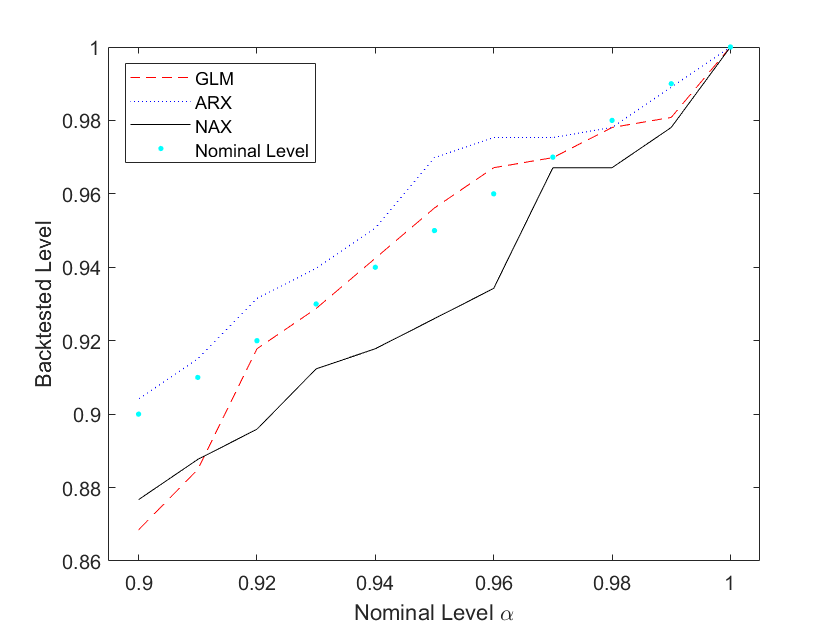
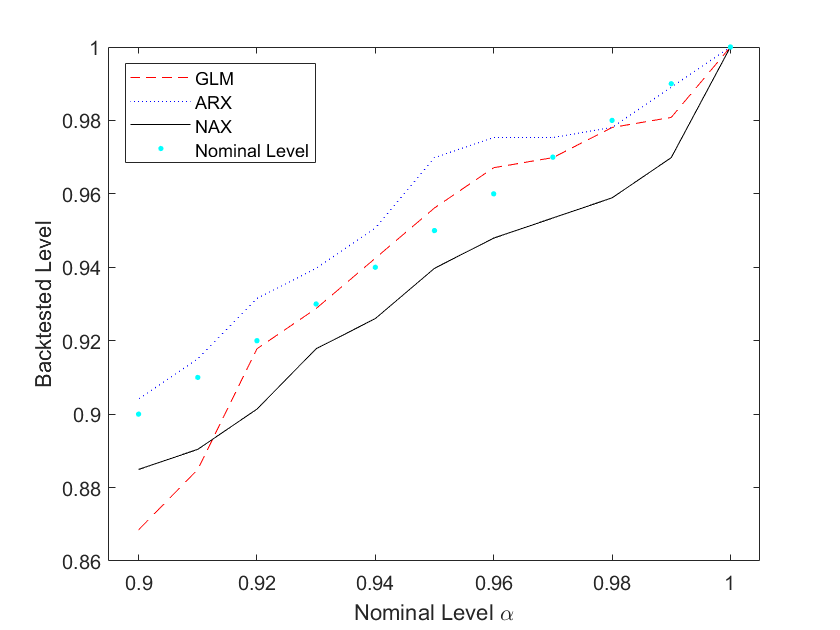
Matlab_Bello

diff --git a/Matlab/find_hyperparam.m b/Matlab/find_hyperparam.m
@@ -1,5 +1,5 @@
-function [hidden_neurons, act_fun, lrn_rate, reg_param, batch_size, min_RMSE, all_RMSE] = find_hyperparam ...
-(dataset, loss_f, list_hidden_neurons, list_act_fun, list_lrn_rate,list_reg_param, list_batch_size, M, m, first_year, last_year, test_year)
+function [hidden_neurons, act_fun, lrn_rate, reg_param, min_RMSE, all_RMSE] = find_hyperparam ...
+(dataset, loss_f, list_hidden_neurons, list_act_fun, list_lrn_rate, list_reg_param, M, m, first_year, last_year, test_year)
 
 %
 % INPUTS:
@@ -33,40 +33,35 @@ L1 = length(list_hidden_neurons);
 L2 = length(list_act_fun);
 L3 = length(list_lrn_rate);
 L4 = length(list_reg_param);
-L5 = length(list_batch_size);
-all_RMSE = zeros(L1, L2, L3,L4,L5);
+all_RMSE = zeros(L1, L2, L3,L4);
 
 % for loop to try all possible combinations
 for n1 = [1:L1]
     for n2 =[1:L2] 
         for n3 =[1:L3] 
             for n4 = [1:L4]
-                for n5 = [1:L5]
                     [mu_NAX, ~] = NAX(dataset, loss_f, list_hidden_neurons(n1), ...
                         list_act_fun(n2,:), list_lrn_rate(n3),list_reg_param(n4),...
-                        list_batch_size(n5),first_year, last_year, test_year, 0); % predicted residuals
+                        first_year, last_year, test_year, 0); % predicted residuals
                     % demand predicted by the neural network
                     if loss_f=='mll'
                         mu_NAX = mu_NAX(:,1);
                     end
                     y_NAX = y_GLM' + mu_NAX; 
                     RMSE = rmse(y, destd(y_NAX',M,m));
-                    all_RMSE(n1, n2, n3,n4,n5) =  RMSE;
-                end
+                    all_RMSE(n1, n2, n3,n4) =  RMSE;
             end
         end
     end
 end
 
 % Find the minimum RMSE and relative optimal parameters
-[~, idx] = min(all_RMSE(:));            
-[n1, n2, n3,n4,n5] = ind2sub(size(all_RMSE),idx)
-min_RMSE = all_RMSE(n1,n2,n3,n4);
+[min_RMSE, idx] = min(all_RMSE(:));            
+[n1, n2, n3,n4] = ind2sub(size(all_RMSE),idx);
 hidden_neurons = list_hidden_neurons(n1);
 act_fun = list_act_fun(n2,:);
 lrn_rate = list_lrn_rate(n3);
 reg_param = list_reg_param(n4);
-batch_size=list_batch_size(n5);
 
 end
 

diff --git a/Matlab/NAX.m b/Matlab/NAX.m
@@ -1,4 +1,4 @@
-function [targets_pred, sigma]= NAX(dataset, loss_f ,hidden_neurons, act_fun, lrn_rate, reg_param,batch_size, first_year, last_year, test_year, flag, inputs)
+function [targets_pred, sigma]= NAX(dataset, loss_f ,hidden_neurons, act_fun, lrn_rate, reg_param, first_year, last_year, test_year, flag, inputs)
 
 % This function builds and calibrates the NAX network, with loss function
 % Mean Squared Error (MSE), and computes standard deviation of the fitted
